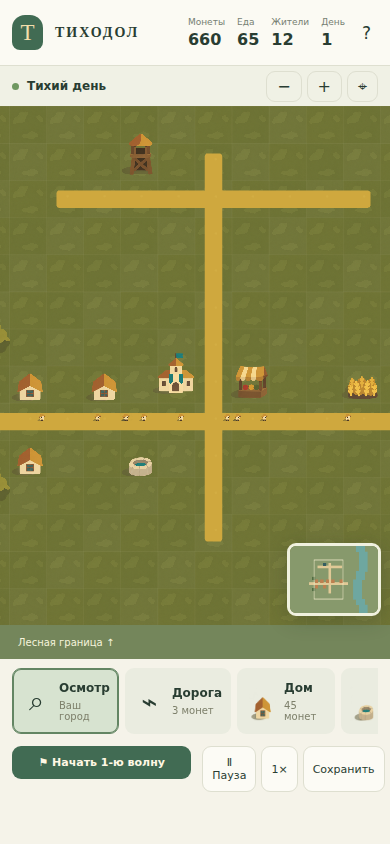
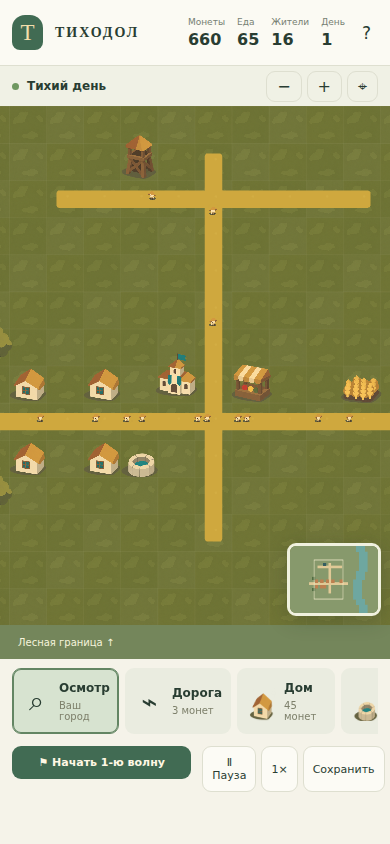
Добавить рабочих служебным зданиям и наклонный ракурс построек

diff --git a/game.js b/game.js
@@ -6,17 +6,17 @@ const $=id=>document.getElementById(id);
 function toast(text){$('toast').textContent=text;$('toast').classList.add('show');clearTimeout(toastTimer);toastTimer=setTimeout(()=>$('toast').classList.remove('show'),3400);}
 function save(manual=false){try{localStorage.setItem(SAVE,JSON.stringify(city.serialize()));if(manual)toast('Город сохранён в этом браузере.');}catch{toast('Браузер не разрешил сохранить город.');}}
 const buildTypes=['inspect','road','house','well','market','farm','fish','pottery','tower','tree','demolish'];
-for(const name of buildTypes){const t=TYPES[name],btn=document.createElement('button');btn.className='build-btn'+(name===tool?' active':'');btn.dataset.tool=name;btn.title=t.desc;const icon=document.createElement('span');icon.className='icon';if(t.frame!==null&&name!=='inspect'){icon.style.backgroundImage='url(assets/town-atlas-v2.png)';icon.style.backgroundPosition=`${(t.frame%4)*100/3}% ${Math.floor(t.frame/4)*100/3}%`;}else{icon.style.fontSize='27px';icon.style.display='grid';icon.style.placeItems='center';icon.textContent=name==='road'?'⌁':name==='inspect'?'⌕':'×';}const text=document.createElement('span');text.innerHTML=`<strong>${t.name}</strong><small>${t.cost?t.cost+' монет':name==='inspect'?'Ваш город':'Убрать'}</small>`;btn.append(icon,text);btn.onclick=()=>setTool(name);$('build').append(btn);}
+for(const name of buildTypes){const t=TYPES[name],btn=document.createElement('button');btn.className='build-btn'+(name===tool?' active':'');btn.dataset.tool=name;btn.title=t.desc;const icon=document.createElement('span');icon.className='icon';if(t.frame!==null&&name!=='inspect'){icon.style.backgroundImage='url(assets/town-atlas-v3.png)';icon.style.backgroundPosition=`${(t.frame%4)*100/3}% ${Math.floor(t.frame/4)*100/3}%`;}else{icon.style.fontSize='27px';icon.style.display='grid';icon.style.placeItems='center';icon.textContent=name==='road'?'⌁':name==='inspect'?'⌕':'×';}const text=document.createElement('span');text.innerHTML=`<strong>${t.name}</strong><small>${t.cost?t.cost+' монет':name==='inspect'?'Ваш город':'Убрать'}</small>`;btn.append(icon,text);btn.onclick=()=>setTool(name);$('build').append(btn);}
 function setTool(name){tool=name;selected=null;$('selection').hidden=true;$('tool-label').textContent=TYPES[name].name;$('tip').textContent=TYPES[name].desc;document.querySelectorAll('.build-btn').forEach(b=>b.classList.toggle('active',b.dataset.tool===name));scene?.ghost.setVisible(false);}
 function selection(){const panel=$('selection'),b=city.buildings.find(b=>b.id===selected);if(!b){panel.hidden=true;return;}panel.hidden=false;let html=`<button class="close" id="close-selection">×</button><h3>${TYPES[b.type].name}</h3><small>${b.type==='house'?'Уровень '+b.level+' · '+b.residents+' жителей':b.type==='tower'?'Уровень '+b.level:'Городская постройка'} · ${Math.ceil(b.hp)}/${b.maxHp} прочности</small>`;
 if(b.type==='house'){const labels={road:'Связь с ратушей',water:'Чистая вода',food:'Еда с рынка',pots:'Посуда',beauty:'Красота района'};html+=Object.entries(b.needs).map(([n,ok])=>`<div class="need"><span>${labels[n]}</span><span class="${ok?'yes':'no'}">${ok?'Есть':'Нужно'}</span></div>`).join('');html+=`<p>${!b.connected?'Проложите дорогу от дома к ратуше.':b.level===3?'Жители довольны своим районом.':!b.needs.water?'Нужен колодец на этой дорожной сети, не дальше 8 клеток.':!b.needs.food?'Нужен работающий рынок и запас еды.':b.level===2&&!b.needs.pots?'Постройте гончарную и обеспечьте её работниками.':b.level===2&&!b.needs.beauty?'Посадите дерево в пределах 3 клеток.':'Дом готов к росту. Поддерживайте снабжение два цикла.'}</p>`;}
-else if(b.type==='hall'){html+=`<p>Занято ${city.employed} из ${city.workforce} работников.<br>Посуда на складе: ${Math.floor(city.pots)}.<br>Торговец предлагает еду и покупает посуду.</p><div class="selection-actions"><button id="buy">30 еды / 40 монет</button><button id="sell">10 посуды / +65</button></div>`;}
-else{html+=`<p>${TYPES[b.type].desc}<br>${b.type==='tree'?'':b.connected?'Соединено с ратушей.':'Нет дороги к ратуше.'}${TYPES[b.type].jobs?'<br>Работники: '+b.workers+'/'+TYPES[b.type].jobs:''}${b.type==='well'||b.type==='market'?'<br>Обслуживает домов: '+(city.serviceLoad.get(b.id)||0):''}</p>`;}
-html+='<div class="selection-actions">';if(b.type==='tower'&&b.level===1)html+='<button id="upgrade">Улучшить · 100</button>';if(b.hp<b.maxHp)html+=`<button id="repair">Ремонт · ${Math.ceil((b.maxHp-b.hp)/5)}</button>`;html+='</div>';panel.innerHTML=html;$('close-selection').onclick=()=>{selected=null;panel.hidden=true;};if($('upgrade'))$('upgrade').onclick=()=>{if(!city.upgrade(b.id))toast('Для улучшения нужно 100 монет.');selection();};if($('repair'))$('repair').onclick=()=>{if(!city.repair(b.id))toast('Не хватает монет на ремонт.');selection();};if($('buy'))$('buy').onclick=()=>{toast(city.trade('buy')?'Куплено 30 еды.':'Нужно 40 монет.');selection();};if($('sell'))$('sell').onclick=()=>{toast(city.trade('sell')?'Продано 10 посуды.':'Нужно 10 посуды.');selection();};}
+else if(b.type==='hall'){html+=`<p>Занято ${city.employed} из ${city.workforce} работников.<br>Посуда на складе: ${Math.floor(city.pots)}.<br>${b.workers?'Ратуша работает: торговля и сбор дохода доступны.':'Нет работника: торговля и сбор дохода приостановлены.'}<br>Работники ратуши: ${b.workers}/${city.capacity(b)}.</p><div class="selection-actions"><button id="buy">30 еды / 40 монет</button><button id="sell">10 посуды / +65</button></div>`;}
+else{html+=`<p>${TYPES[b.type].desc}<br>${b.type==='tree'?'':b.connected?'Соединено с ратушей.':'Нет дороги к ратуше.'}${TYPES[b.type].jobs?'<br>Работники: '+b.workers+'/'+city.capacity(b):''}${b.type==='well'||b.type==='market'?'<br>Обслуживает домов: '+(city.serviceLoad.get(b.id)||0):''}</p>`;}
+html+='<div class="selection-actions">';if(b.type==='tower'&&b.level===1)html+='<button id="upgrade">Улучшить · 100<br>4 работника</button>';if(b.hp<b.maxHp)html+=`<button id="repair">Ремонт · ${Math.ceil((b.maxHp-b.hp)/5)}</button>`;html+='</div>';if(city.capacity(b)>0&&b.type!=='tower'&&b.type!=='hall')html+=`<p>${!b.workers?'Нет работников: здание простаивает.':b.workers<city.capacity(b)?'Неполный состав: эффективность '+Math.round(b.workers/city.capacity(b)*100)+'%.':'Все рабочие места заняты.'}</p>`;if(b.type==='tower')html+=`<p>${!b.connected?'Нужна дорога к ратуше для найма гарнизона.':!b.workers?'Нет работников: башня не стреляет. Постройте заселённые дома у дорожной сети.':b.workers<city.capacity(b)?'Неполный гарнизон: скорострельность '+Math.round(b.workers/city.capacity(b)*100)+'%.':'Гарнизон укомплектован. Башня готова к обороне.'}</p>`;panel.innerHTML=html;$('close-selection').onclick=()=>{selected=null;panel.hidden=true;};if($('upgrade'))$('upgrade').onclick=()=>{if(!city.upgrade(b.id))toast('Для улучшения нужно 100 монет.');selection();};if($('repair'))$('repair').onclick=()=>{if(!city.repair(b.id))toast('Не хватает монет на ремонт.');selection();};if($('buy'))$('buy').onclick=()=>{toast(city.trade('buy')?'Куплено 30 еды.':!b.workers?'Нужен работник в ратуше.':'Нужно 40 монет.');selection();};if($('sell'))$('sell').onclick=()=>{toast(city.trade('sell')?'Продано 10 посуды.':!b.workers?'Нужен работник в ратуше.':'Нужно 10 посуды.');selection();};}
 function ui(){for(const n of ['coins','food','population'])$(n).textContent=Math.floor(city[n]);$('day').textContent=Math.floor(city.time/12)+1;$('world-status').textContent=city.lost?'Ратуша разрушена':city.waveActive?'Нападение · волна '+city.wave:'Тихий день';$('wave').disabled=city.waveActive||city.lost;$('wave').textContent=city.waveActive?'⚑ Врагов: '+(city.enemies.length+city.spawnLeft):'⚑ Начать '+(city.wave+1)+'-ю волну';$('wave-note').textContent=city.waveActive?'Башни защищают автоматически. Можно строить и ремонтировать.':'Нападения начинаются по вашей команде.';const homes=city.buildings.filter(b=>b.type==='house'),grown=homes.filter(b=>b.level>=2).length;$('objective').innerHTML=`${grown>=3?'✓':'○'} Улучшить 3 дома <span>${grown}/3</span><br>${city.buildings.some(b=>b.type==='pottery')?'✓':'○'} Открыть производство посуды<br>${city.wave>=1&&!city.waveActive?'✓':'○'} Отразить первую волну`;if(selected)selection();while(city.events.length)toast(city.events.shift());}
 class World extends Phaser.Scene{
 constructor(){super('World');this.rev=-1;this.buildingSprites=new Map();this.enemySprites=new Map();this.villagers=[];this.elapsed=0;this.uiTime=0;this.down=null;this.moved=false;this.lastPaint='';}
-preload(){this.load.image('atlas','assets/town-atlas-v2.png');this.load.image('terrain','assets/terrain-v2.png');}
+preload(){this.load.image('atlas','assets/town-atlas-v3.png');this.load.image('terrain','assets/terrain-v2.png');}
 create(){scene=this;$('loading').remove();const atlas=this.textures.get('atlas'),img=atlas.getSourceImage();for(let i=0;i<16;i++){const col=i%4,row=Math.floor(i/4),x=Math.round(col*img.width/4),y=Math.round(row*img.height/4);atlas.add('sprite'+i,0,x,y,Math.round((col+1)*img.width/4)-x,Math.round((row+1)*img.height/4)-y);}
 const tex=this.textures.get('terrain'),source=tex.getSourceImage();for(let i=0;i<4;i++){const x=Math.round(i%2*source.width/2),y=Math.round(Math.floor(i/2)*source.height/2);tex.add('tile'+i,0,x,y,Math.round(source.width/2),Math.round(source.height/2));}
 this.terrainLayer=this.add.container(0,0);for(let y=0;y<H;y++)for(let x=0;x<W;x++){const t=terrain(x,y),f=t==='water'?2:t==='sand'?3:0;const image=this.add.image(x*TILE,y*TILE,'terrain','tile'+f).setOrigin(0).setDisplaySize(TILE+1,TILE+1);if(t==='grass')image.setTint([0xffffff,0xfbfbe9,0xf7f8e9][(x*7+y*13)%3]);this.terrainLayer.add(image);}
@@ -33,9 +33,9 @@ drawHover({x,y}){this.hover.clear();this.ghost.setVisible(false);if(x<0||y<0||x>
 paint(p){const {x,y}=this.cell(p),k=key(x,y);if(k===this.lastPaint)return;this.lastPaint=k;const err=city.place('road',x,y);if(err&&!err.includes('занята'))toast(err);}
 click(p){const{x,y}=this.cell(p);if(tool==='inspect'){selected=city.at(x,y)?.id??null;selection();this.range.clear();const b=city.at(x,y);if(b?.type==='tower'){this.range.lineStyle(2,0xf9e8a2,.7);this.range.strokeCircle(b.x*TILE+32,b.y*TILE+32,(b.level===1?5:6.5)*TILE);}return;}const err=city.place(tool,x,y);if(err)toast(err);else {this.range.clear();ui();}}
 renderBuildings(){this.roads.clear();for(const k of city.roads){const[x,y]=k.split(',').map(Number),cx=x*TILE+32,cy=y*TILE+32;const connected=city.connected.has(k);this.roads.fillStyle(connected?0xcfa83e:0x9d924c,1);this.roads.fillRoundedRect(cx-15,cy-15,30,30,5);for(const[dx,dy]of [[1,0],[-1,0],[0,1],[0,-1]])if(city.roads.has(key(x+dx,y+dy)))this.roads.fillRect(cx+(dx<0?-32:dx>0?0:-15),cy+(dy<0?-32:dy>0?0:-15),dx?32:30,dy?32:30);this.roads.fillStyle(0xe2bd55,.22);this.roads.fillCircle(cx+4,cy-5,2);}
-const live=new Set();for(const b of city.buildings){live.add(b.id);const frame=b.type==='house'?b.level-1:b.type==='tower'&&b.level===2?9:TYPES[b.type].frame;let image=this.buildingSprites.get(b.id);if(!image){image=this.add.image(b.x*TILE+32,b.y*TILE+51,'atlas','sprite'+frame).setOrigin(.5,.85);this.buildingSprites.set(b.id,image);}image.setTexture('atlas','sprite'+frame).setDisplaySize(b.type==='tree'?83:86,b.type==='tree'?90:86).setDepth(10+b.y*10);image.setAlpha(b.connected||b.type==='tree'||b.type==='tower'?1:.63);}
+const live=new Set();for(const b of city.buildings){live.add(b.id);const frame=b.type==='house'?b.level-1:b.type==='tower'&&b.level===2?9:TYPES[b.type].frame;let image=this.buildingSprites.get(b.id);if(!image){image=this.add.image(b.x*TILE+32,b.y*TILE+51,'atlas','sprite'+frame).setOrigin(.5,.85);this.buildingSprites.set(b.id,image);}image.setTexture('atlas','sprite'+frame).setDisplaySize(b.type==='tree'?83:86,b.type==='tree'?90:86).setDepth(10+b.y*10);image.setAlpha(b.connected||b.type==='tree'?1:.63);}
 for(const[id,image]of this.buildingSprites)if(!live.has(id)){image.destroy();this.buildingSprites.delete(id);}this.rev=city.revision;this.makeVillagers();this.updateMinimap();}
-makeVillagers(){for(const v of this.villagers)v.image.destroy();this.villagers=[];const homes=city.buildings.filter(b=>b.type==='house'&&b.residents);const targets=city.buildings.filter(b=>b.connected&&['farm','market','pottery','well','fish'].includes(b.type));for(let i=0;i<Math.min(18,city.population);i++){const home=homes[i%homes.length],target=targets[i%targets.length];if(!home||!target)continue;const path=city.path(home,target);if(path.length<2)continue;const image=this.add.image(0,0,'atlas','sprite12').setDisplaySize(25,29).setOrigin(.5,.9);this.villagers.push({image,path,p:i*.75,dir:1});}}
+makeVillagers(){for(const v of this.villagers)v.image.destroy();this.villagers=[];const homes=city.buildings.filter(b=>b.type==='house'&&b.residents);const targets=city.buildings.filter(b=>b.connected&&['farm','market','pottery','well','fish','tower'].includes(b.type));for(let i=0;i<Math.min(18,city.population);i++){const home=homes[i%homes.length],target=targets[i%targets.length];if(!home||!target)continue;const path=city.path(home,target);if(path.length<2)continue;const image=this.add.image(0,0,'atlas','sprite12').setDisplaySize(25,29).setOrigin(.5,.9);this.villagers.push({image,path,p:i*.75,dir:1});}}
 shot(a,b){const arrow=this.add.graphics().setDepth(2000);arrow.lineStyle(3,0xffedb2,1);arrow.lineBetween(0,0,10,0);arrow.setPosition(a.x*TILE+32,a.y*TILE+10);const end={x:b.x*TILE+32,y:b.y*TILE+32};arrow.rotation=Math.atan2(end.y-arrow.y,end.x-arrow.x);this.tweens.add({targets:arrow,x:end.x,y:end.y,duration:210,onComplete:()=>arrow.destroy()});}
 updateMinimap(){const canvas=$('minimap'),ctx=canvas.getContext('2d'),sx=canvas.width/W,sy=canvas.height/H;ctx.fillStyle='#87996c';ctx.fillRect(0,0,canvas.width,canvas.height);for(let y=0;y<H;y++)for(let x=0;x<W;x++)if(terrain(x,y)==='water'){ctx.fillStyle='#6ea7a0';ctx.fillRect(x*sx,y*sy,sx+1,sy+1);}ctx.fillStyle='#e0c996';for(const k of city.roads){const[x,y]=k.split(',').map(Number);ctx.fillRect(x*sx,y*sy,sx,sy);}for(const b of city.buildings){ctx.fillStyle=b.type==='tower'?'#345d61':b.type==='tree'?'#526d43':'#bd8050';ctx.fillRect(b.x*sx,b.y*sy,sx+1,sy+1);}ctx.fillStyle='#d97762';for(const e of city.enemies)ctx.fillRect(e.x*sx,e.y*sy,3,3);const c=this.cameras.main;ctx.strokeStyle='#faf2d2';ctx.lineWidth=1.2;ctx.strokeRect(c.worldView.x/TILE*sx,c.worldView.y/TILE*sy,c.worldView.width/TILE*sx,c.worldView.height/TILE*sy);}
 update(time,delta){const dt=Math.min(delta/1000,.1);if(!paused){city.step(dt*speed);saveClock+=dt;if(saveClock>15){saveClock=0;save();}for(const v of this.villagers){const max=v.path.length-1;v.p+=dt*.85*speed*v.dir;if(v.p>=max){v.p=max;v.dir=-1;}if(v.p<=0){v.p=0;v.dir=1;}const idx=Math.min(max-1,Math.floor(v.p)),f=v.p-idx,a=v.path[idx],b=v.path[idx+1];v.image.setPosition((a[0]+(b[0]-a[0])*f)*TILE+32,(a[1]+(b[1]-a[1])*f)*TILE+34+Math.sin(time/100)*1.2).setDepth(15+v.image.y/TILE*10).setFlipX(b[0]<a[0]);}}

diff --git a/sim.js b/sim.js
@@ -6,14 +6,14 @@ inspect:{name:'Осмотр',cost:0,frame:14,desc:'Выберите здание
 road:{name:'Дорога',cost:3,frame:null,desc:'Соединяет дома и службы с ратушей. Можно рисовать непрерывно.'},
 house:{name:'Дом',cost:45,frame:0,hp:150,desc:'Вода и еда → уровень 2. Посуда и красота → уровень 3.'},
 well:{name:'Колодец',cost:65,frame:3,hp:160,desc:'Даёт воду 4 домам в пределах 8 клеток пути по дороге.'},
-market:{name:'Рынок',cost:90,frame:4,hp:170,desc:'Снабжает едой 8 домов в пределах 10 клеток пути.'},
-farm:{name:'Ферма',cost:80,frame:5,hp:150,jobs:4,desc:'4 работника производят 8 еды за цикл.'},
+market:{name:'Рынок',cost:90,frame:4,hp:170,jobs:2,desc:'2 работника снабжают едой до 8 домов в пределах 10 клеток пути. Неполный состав обслуживает меньше домов.'},
+farm:{name:'Ферма',cost:80,frame:5,hp:150,jobs:3,desc:'3 работника производят 6 еды за цикл.'},
 fish:{name:'Рыбалка',cost:85,frame:6,hp:140,jobs:3,desc:'Строится у реки. 3 работника производят 6 еды за цикл.'},
 pottery:{name:'Гончарная',cost:100,frame:7,hp:170,jobs:4,desc:'Работники делают посуду, необходимую для лучших домов.'},
-tower:{name:'Башня',cost:120,frame:8,hp:260,desc:'Автоматически защищает город. Можно улучшить в карточке.'},
+tower:{name:'Башня',cost:120,frame:8,hp:260,jobs:2,desc:'Нужны 2 работника, улучшенной башне — 4. Без гарнизона не стреляет; неполный состав снижает скорострельность.'},
 tree:{name:'Дерево',cost:12,frame:10,hp:60,desc:'Красота для домов в пределах 3 клеток.'},
 demolish:{name:'Снести',cost:0,frame:null,desc:'Возвращает треть стоимости. Ратушу снести нельзя.'},
-hall:{name:'Ратуша',cost:0,frame:15,hp:700,desc:'Сердце дорожной сети. Торговля запасами и городской бюджет.'}
+hall:{name:'Ратуша',cost:0,frame:15,hp:700,jobs:1,desc:'1 работник ведёт торговлю и собирает доход города. Сердце дорожной сети.'}
 };
 const key=(x,y)=>x+','+y,dist=(a,b)=>Math.hypot(a.x-b.x,a.y-b.y);
 const riverX=y=>25+Math.round(Math.sin(y*.32)*1.3);
@@ -22,32 +22,37 @@ class City{
 constructor(saved){this.events=[];this.time=0;this.cycle=0;this.coins=660;this.food=65;this.pots=0;this.wave=0;this.kills=0;this.roads=new Set();this.buildings=[];this.enemies=[];this.waveActive=false;this.spawnLeft=0;this.spawnClock=0;this.nextId=1;this.lost=false;this.revision=0;
 if(saved){this.coins=saved.coins;this.food=saved.food;this.pots=saved.pots;this.time=saved.time;this.cycle=saved.cycle;this.wave=saved.wave;this.kills=saved.kills;this.nextId=saved.nextId;this.roads=new Set(saved.roads);this.buildings=saved.buildings;this.lost=!this.buildings.some(b=>b.type==='hall');this.event('Город восстановлен. Незавершённая волна отменена.');}else this.seed();this.recompute();}
 event(text){this.events.push(text);}
-seed(){for(let x=7;x<=20;x++)this.roads.add(key(x,13));for(let y=6;y<=16;y++)this.roads.add(key(14,y));for(let x=10;x<=18;x++)this.roads.add(key(x,7));this.add('hall',13,12);this.add('house',9,12);this.add('house',11,12);this.add('house',9,14);this.add('well',12,14);this.add('market',15,12);this.add('farm',18,12);this.add('tower',12,6);this.add('tree',8,11);this.add('tree',8,15);}
+seed(){for(let x=7;x<=20;x++)this.roads.add(key(x,13));for(let y=6;y<=16;y++)this.roads.add(key(14,y));for(let x=10;x<=18;x++)this.roads.add(key(x,7));this.add('hall',13,12);this.add('house',9,12);this.add('house',11,12);this.add('house',9,14);this.add('house',11,14);this.add('well',12,14);this.add('market',15,12);this.add('farm',18,12);this.add('tower',12,6);this.add('tree',8,11);this.add('tree',8,15);}
 add(type,x,y){const t=TYPES[type];const b={id:this.nextId++,type,x,y,level:1,hp:t.hp,maxHp:t.hp,progress:0,workers:0,cooldown:0};this.buildings.push(b);this.revision++;return b;}
 at(x,y){return this.buildings.find(b=>b.x===x&&b.y===y);}
 place(type,x,y){if(this.lost)return 'Ратуша разрушена. Начните новый город.';if(x<1||x>=W-1||y<1||y>=H-1)return 'Здесь проходит граница поселения.';const existing=this.at(x,y);
 if(type==='demolish'){if(existing?.type==='hall')return 'Ратуша нужна городу.';if(existing){this.coins+=Math.floor(TYPES[existing.type].cost/3);this.buildings=this.buildings.filter(b=>b!==existing);this.revision++;}else if(this.roads.delete(key(x,y)))this.revision++;this.recompute();return null;}
 if(existing||this.roads.has(key(x,y)))return 'Эта клетка уже занята.';if(terrain(x,y)==='water')return 'На воде строить нельзя.';if(type==='fish'&&![[1,0],[-1,0],[0,1],[0,-1]].some(([dx,dy])=>terrain(x+dx,y+dy)==='water'))return 'Рыбацкому домику нужен берег реки.';if(this.coins<TYPES[type].cost)return 'Не хватает монет.';this.coins-=TYPES[type].cost;if(type==='road'){this.roads.add(key(x,y));this.revision++;}else this.add(type,x,y);this.recompute();return null;}
+capacity(b){return b.type==='tower'&&b.level>=2?4:(TYPES[b.type].jobs||0);}
 nearRoads(b){return [[1,0],[-1,0],[0,1],[0,-1]].map(([dx,dy])=>key(b.x+dx,b.y+dy)).filter(k=>this.roads.has(k));}
 bfs(starts){const d=new Map(),q=[];for(const k of starts){d.set(k,0);q.push(k);}for(let i=0;i<q.length;i++){const k=q[i], [x,y]=k.split(',').map(Number);for(const [dx,dy]of [[1,0],[-1,0],[0,1],[0,-1]]){const n=key(x+dx,y+dy);if(this.roads.has(n)&&!d.has(n)){d.set(n,d.get(k)+1);q.push(n);}}}return d;}
 path(a,b){const goals=new Set(this.nearRoads(b)),starts=this.nearRoads(a).filter(k=>this.connected.has(k)),q=[...starts],parent=new Map(starts.map(k=>[k,null]));for(let i=0;i<q.length;i++){const k=q[i];if(goals.has(k)){const out=[];for(let p=k;p!==null;p=parent.get(p))out.push(p.split(',').map(Number));return out.reverse();}const[x,y]=k.split(',').map(Number);for(const[dx,dy]of [[1,0],[-1,0],[0,1],[0,-1]]){const n=key(x+dx,y+dy);if(this.connected.has(n)&&!parent.has(n)){parent.set(n,k);q.push(n);}}}return [];}
-recompute(){const hall=this.buildings.find(b=>b.type==='hall');this.connected=this.bfs(hall?this.nearRoads(hall):[]);for(const b of this.buildings)b.connected=b.type==='hall'||this.nearRoads(b).some(k=>this.connected.has(k));
-const services=this.buildings.filter(b=>b.connected&&(b.type==='well'||b.type==='market'));const maps=new Map(services.map(b=>[b.id,this.bfs(this.nearRoads(b))]));const load=new Map();this.population=0;
-for(const b of this.buildings.filter(b=>b.type==='house')){b.needs={road:b.connected,water:false,food:false,pots:false,beauty:this.buildings.some(t=>t.type==='tree'&&dist(t,b)<=3)};if(b.connected){for(const[type,need,range,cap]of [['well','water',8,4],['market','food',10,8]]){const candidates=services.filter(s=>s.type===type).map(s=>({s,d:Math.min(...this.nearRoads(b).map(k=>maps.get(s.id).get(k)??Infinity))})).filter(({s,d})=>d<=range&&(load.get(s.id)||0)<cap).sort((a,b)=>a.d-b.d);if(candidates.length){const s=candidates[0].s;load.set(s.id,(load.get(s.id)||0)+1);b.needs[need]=need==='water'||this.food>0;}}b.needs.pots=this.pots>0;}b.residents=b.connected?b.level*4:0;this.population+=b.residents;}
-this.workforce=Math.floor(this.population*.5);let available=this.workforce;const jobs=this.buildings.filter(b=>TYPES[b.type].jobs);this.jobs=jobs.reduce((n,b)=>n+TYPES[b.type].jobs,0);for(const b of jobs){const reachable=b.connected&&this.buildings.some(h=>h.type==='house'&&h.residents&&this.path(h,b).length<=18);b.workers=reachable?Math.min(available,TYPES[b.type].jobs):0;available-=b.workers;}this.employed=this.workforce-available;this.serviceLoad=load;}
+recompute(){
+const hall=this.buildings.find(b=>b.type==='hall');this.connected=this.bfs(hall?this.nearRoads(hall):[]);for(const b of this.buildings)b.connected=b.type==='hall'||this.nearRoads(b).some(k=>this.connected.has(k));
+const houses=this.buildings.filter(b=>b.type==='house');this.population=0;for(const b of houses){b.residents=b.connected?b.level*4:0;this.population+=b.residents;}
+this.workforce=Math.floor(this.population*.5);let available=this.workforce;const jobs=this.buildings.filter(b=>this.capacity(b)>0);this.jobs=jobs.reduce((n,b)=>n+this.capacity(b),0);
+for(const b of jobs){const reachable=b.connected&&houses.some(h=>{if(!h.residents)return false;const length=this.path(h,b).length;return length>0&&length<=18;});b.workers=reachable?Math.min(available,this.capacity(b)):0;available-=b.workers;}this.employed=this.workforce-available;
+const services=this.buildings.filter(b=>b.connected&&(b.type==='well'||(b.type==='market'&&b.workers>0)));const maps=new Map(services.map(b=>[b.id,this.bfs(this.nearRoads(b))]));const load=new Map();
+for(const b of houses){b.needs={road:b.connected,water:false,food:false,pots:false,beauty:this.buildings.some(t=>t.type==='tree'&&dist(t,b)<=3)};if(b.connected){for(const[type,need,range,cap]of [['well','water',8,4],['market','food',10,8]]){const candidates=services.filter(s=>s.type===type).map(s=>({s,d:Math.min(...this.nearRoads(b).map(k=>maps.get(s.id).get(k)??Infinity))})).filter(({s,d})=>d<=range&&(load.get(s.id)||0)<(s.type==='market'?Math.floor(cap*s.workers/this.capacity(s)):cap)).sort((a,b)=>a.d-b.d);if(candidates.length){const s=candidates[0].s;load.set(s.id,(load.get(s.id)||0)+1);b.needs[need]=need==='water'||this.food>0;}}b.needs.pots=this.pots>0;}}
+this.serviceLoad=load;}
 economy(){this.recompute();let produced=0;for(const b of this.buildings){if(b.type==='farm')produced+=b.workers*2;if(b.type==='fish')produced+=b.workers*2;if(b.type==='pottery')this.pots+=b.workers*.5;}
 this.food=Math.min(500,this.food+produced);let income=0;for(const b of this.buildings.filter(b=>b.type==='house')){if(!b.residents)continue;const need=b.needs;if(need.food){if(this.food>=b.residents*.25)this.food-=b.residents*.25;else need.food=false;}const desired=need.water&&need.food?(need.pots&&need.beauty?3:2):1;if(desired>b.level){b.progress++;if(b.progress>=2){b.level++;b.progress=0;this.event('Дом вырос до уровня '+b.level+'!');this.revision++;}}else if(desired<b.level){b.progress--;if(b.progress<=-4){b.level--;b.progress=0;this.revision++;}}else b.progress=0;if(b.level===3)this.pots=Math.max(0,this.pots-.25);income+=b.level*4;}
-this.coins+=income;this.cycle++;this.recompute();}
+const hall=this.buildings.find(b=>b.type==='hall');this.coins+=income*(hall?.workers?1:0);this.cycle++;this.recompute();}
 startWave(){if(this.waveActive||this.lost)return false;this.wave++;this.waveActive=true;this.spawnLeft=4+this.wave*2;this.spawnClock=0;this.event('Волна '+this.wave+': монстры идут с северной опушки!');return true;}
 step(dt){if(this.lost)return;const oldCycle=Math.floor(this.time/12);this.time+=dt;if(Math.floor(this.time/12)>oldCycle)this.economy();
 if(this.waveActive){this.spawnClock-=dt;if(this.spawnLeft>0&&this.spawnClock<=0){this.spawnClock=1.8;this.spawnLeft--;const tank=this.wave>=2&&this.spawnLeft%3===0;this.enemies.push({id:this.nextId++,x:10+(this.spawnLeft%8),y:.3,hp:tank?100+this.wave*18:35+this.wave*10,maxHp:tank?100+this.wave*18:35+this.wave*10,speed:tank?.55:.8,tank,cooldown:0});}
-for(const tower of this.buildings.filter(b=>b.type==='tower')){tower.cooldown=Math.max(0,tower.cooldown-dt);const range=tower.level===1?5:6.5;const target=this.enemies.filter(e=>e.hp>0&&dist(e,tower)<range).sort((a,b)=>a.y-b.y).at(-1);if(target&&tower.cooldown===0){target.hp-=tower.level===1?15:27;tower.cooldown=tower.level===1?.85:.65;this.onShot?.(tower,target);}}
+for(const tower of this.buildings.filter(b=>b.type==='tower'&&b.connected&&b.workers>0)){tower.cooldown=Math.max(0,tower.cooldown-dt);const range=tower.level===1?5:6.5;const target=this.enemies.filter(e=>e.hp>0&&dist(e,tower)<range).sort((a,b)=>a.y-b.y).at(-1);if(target&&tower.cooldown===0){target.hp-=tower.level===1?15:27;tower.cooldown=(tower.level===1?.85:.65)*this.capacity(tower)/tower.workers;this.onShot?.(tower,target);}}
 for(const e of this.enemies){if(e.hp<=0)continue;let target=this.buildings.find(b=>b.id===e.target);if(!target){target=this.buildings.filter(b=>b.type!=='tree').sort((a,b)=>dist(a,e)-dist(b,e))[0];e.target=target?.id;}if(!target)continue;const d=dist(e,target);if(d>.65){e.x+=(target.x-e.x)/d*e.speed*dt;e.y+=(target.y-e.y)/d*e.speed*dt;}else{e.cooldown-=dt;if(e.cooldown<=0){e.cooldown=1;target.hp-=e.tank?22:10;this.onHit?.(target);if(target.hp<=0){this.buildings=this.buildings.filter(b=>b!==target);this.revision++;this.recompute();this.event(TYPES[target.type].name+' разрушен.');if(target.type==='hall'){this.lost=true;this.waveActive=false;this.event('Ратуша пала. Начните заново — город можно построить иначе.');}}}}}
 const dead=this.enemies.filter(e=>e.hp<=0);this.kills+=dead.length;this.coins+=dead.length*7;this.enemies=this.enemies.filter(e=>e.hp>0);if(!this.spawnLeft&&!this.enemies.length&&!this.lost){this.waveActive=false;this.coins+=50+this.wave*15;this.event('Волна отражена! Награда '+(50+this.wave*15)+' монет.');}}
 }
-upgrade(id){const b=this.buildings.find(b=>b.id===id);if(!b||b.type!=='tower'||b.level>=2)return false;if(this.coins<100)return false;this.coins-=100;b.level=2;b.maxHp=420;b.hp=420;this.revision++;return true;}
+upgrade(id){const b=this.buildings.find(b=>b.id===id);if(!b||b.type!=='tower'||b.level>=2)return false;if(this.coins<100)return false;this.coins-=100;b.level=2;b.maxHp=420;b.hp=420;this.revision++;this.recompute();return true;}
 repair(id){const b=this.buildings.find(b=>b.id===id);if(!b)return false;const cost=Math.ceil((b.maxHp-b.hp)/5);if(this.coins<cost)return false;this.coins-=cost;b.hp=b.maxHp;return true;}
-trade(action){if(this.lost)return false;if(action==='buy'&&this.coins>=40){this.coins-=40;this.food+=30;return true;}if(action==='sell'&&this.pots>=10){this.pots-=10;this.coins+=65;return true;}return false;}
+trade(action){if(this.lost||!this.buildings.some(b=>b.type==='hall'&&b.workers>0))return false;if(action==='buy'&&this.coins>=40){this.coins-=40;this.food+=30;return true;}if(action==='sell'&&this.pots>=10){this.pots-=10;this.coins+=65;return true;}return false;}
 serialize(){return {version:1,coins:this.coins,food:this.food,pots:this.pots,time:this.time,cycle:this.cycle,wave:this.wave,kills:this.kills,nextId:this.nextId,roads:[...this.roads],buildings:this.buildings.map(b=>({...b}))};}
 }
 const api={City,TYPES,W,H,key,terrain,riverX};if(typeof module!=='undefined')module.exports=api;else window.TownSim=api;

diff --git a/index.html b/index.html
@@ -1,6 +1,6 @@
-<!doctype html><html lang="ru"><head><meta charset="UTF-8"><meta name="viewport" content="width=device-width,initial-scale=1,maximum-scale=1"><meta name="theme-color" content="#263e35"><meta name="robots" content="noindex,nofollow"><title>Тиходол — город у границы леса</title><link rel="icon" href="data:,"><link rel="stylesheet" href="style.css?v=2"></head><body>
+<!doctype html><html lang="ru"><head><meta charset="UTF-8"><meta name="viewport" content="width=device-width,initial-scale=1,maximum-scale=1"><meta name="theme-color" content="#263e35"><meta name="robots" content="noindex,nofollow"><title>Тиходол — город у границы леса</title><link rel="icon" href="data:,"><link rel="stylesheet" href="style.css?v=3"></head><body>
 <header><div class="brand"><span class="brandmark">Т</span><div><b>ТИХОДОЛ</b><small>город у границы леса</small></div></div><div id="resources"><span>Монеты <b id="coins">—</b></span><span>Еда <b id="food">—</b></span><span>Жители <b id="population">—</b></span><span>День <b id="day">1</b></span></div><button id="help" class="quiet">Как играть</button></header>
 <main><aside><div class="eyebrow">ВАШЕ ПОСЕЛЕНИЕ</div><h1>Большое начинается<br>с маленького дома.</h1><p class="intro">Проложите дороги, позаботьтесь о жителях и защитите их от лесных гостей.</p><div class="sectionlabel">СТРОИТЕЛЬСТВО <span id="tool-label">Осмотр</span></div><nav id="build"></nav><div class="tip" id="tip">Начните с дома рядом с дорогой. Колодец и рынок помогут ему вырасти.</div><div class="sectionlabel">ГОРОДСКИЕ ДЕЛА</div><div class="objective" id="objective"></div><button id="wave" class="primary">⚑ Начать первую волну</button><div class="wave-note" id="wave-note">Нападения начинаются по вашей команде.</div><div class="controls"><button id="pause">Ⅱ Пауза</button><button id="speed">1×</button><button id="save">Сохранить</button></div><button id="reset" class="quiet reset">Начать заново</button></aside>
 <section class="world"><div class="world-head"><div><span class="status-dot"></span><b id="world-status">Тихий день</b><span id="season"> • Лето, первый год</span></div><div class="view-controls"><button id="zoom-out" aria-label="Уменьшить">−</button><button id="zoom-in" aria-label="Увеличить">+</button><button id="center">⌖</button></div></div><div id="game"><div id="loading">Рисуем ваш Тиходол…</div></div><div id="toast" role="status"></div><div id="selection" hidden></div><div class="map-legend"><span>Лесная граница ↑</span><span id="hint">Выберите здание • колесо: масштаб • перетаскивание: обзор</span></div><canvas id="minimap" width="160" height="120" title="Карта города"></canvas></section></main>
-<dialog id="help-dialog"><button id="close-help" class="close">×</button><div class="eyebrow">ДОБРО ПОЖАЛОВАТЬ</div><h2>У каждого дома — своя история.</h2><p>Поставьте дом у дороги, ведущей к ратуше. Колодец и рынок тоже должны примыкать к этой сети. Фермы и рыбацкие домики наполняют запас еды.</p><p>Вода и еда улучшают дом до второго уровня. Посуда из мастерской и дерево рядом открывают третий. Благополучные дома приносят больше монет.</p><p>Поставьте башни к северу от домов. Нажмите «Начать волну»: монстры идут с северной опушки. Башни стреляют автоматически, враги ломают постройки. Повреждения можно отремонтировать в карточке здания.</p><p>Выбирайте здания в меню и нажимайте на свободные клетки. Дорогу можно рисовать, ведя пальцем или мышью. В режиме осмотра перетаскивайте карту; на телефоне масштаб меняют кнопки + и −.</p><p>Это ранний прототип: торговля работает через обмен в ратуше, а работа жителей пока рассчитывается по доступности зданий. Волны запускаются вручную, сохранение хранится только в этом браузере.</p><button id="play" class="primary">Построим свой город</button></dialog>
-<script src="assets/phaser.min.js"></script><script src="sim.js"></script><script src="game.js?v=2"></script></body></html>
+<dialog id="help-dialog"><button id="close-help" class="close">×</button><div class="eyebrow">ДОБРО ПОЖАЛОВАТЬ</div><h2>У каждого дома — своя история.</h2><p>Поставьте дом у дороги, ведущей к ратуше. Колодец и рынок тоже должны примыкать к этой сети. Все рабочие здания требуют персонала; неполный состав снижает эффективность. Колодец работает без персонала. Фермы и рыбацкие домики наполняют запас еды.</p><p>Вода и еда улучшают дом до второго уровня. Посуда из мастерской и дерево рядом открывают третий. Благополучные дома приносят больше монет.</p><p>Поставьте башни к северу от домов. Нажмите «Начать волну»: монстры идут с северной опушки. Башни требуют дороги и гарнизона: 2 работника, после улучшения — 4. Без работников они не стреляют; неполный состав замедляет стрельбу. Враги ломают постройки. Повреждения можно отремонтировать в карточке здания.</p><p>Выбирайте здания в меню и нажимайте на свободные клетки. Дорогу можно рисовать, ведя пальцем или мышью. В режиме осмотра перетаскивайте карту; на телефоне масштаб меняют кнопки + и −.</p><p>Это ранний прототип: торговля работает через обмен в ратуше, а работа жителей пока рассчитывается по доступности зданий. Волны запускаются вручную, сохранение хранится только в этом браузере.</p><button id="play" class="primary">Построим свой город</button></dialog>
+<script src="assets/phaser.min.js"></script><script src="sim.js?v=3"></script><script src="game.js?v=3"></script></body></html>

diff --git a/README.md b/README.md
@@ -11,13 +11,13 @@
 - Сетка 32×24, дороги и связность с ратушей; обзор, масштаб и миникарта.
 - Дома трёх уровней; дорожная доступность воды и рынка, ограниченная вместимость служб, запас еды, посуда, красота.
 - Фермы, рыбалка на берегу, гончарная; распределение работников и пешеходные маршруты по дорогам.
-- Башни двух уровней, снаряды, вручную запускаемые волны, два типа врагов, разрушение зданий, ремонт, награды.
+- Работники для всех рабочих зданий, кроме колодца. Рынок обслуживает меньше домов при неполном составе; ратуша без работника не торгует и не собирает доход. Башни двух уровней, снаряды, вручную запускаемые волны, два типа врагов, разрушение зданий, ремонт, награды.
 - Покупка еды и продажа посуды в ратуше.
 - Пауза, скорости 1/2/3×, сохранение localStorage, адаптивное управление.
 
 ## Ограничения
 
-Это проверка основного игрового цикла, не вся обсуждённая модель. Нет индивидуального бюджета времени жителей, полноценного рынка труда, развитой торговли, санитарии, образования, развлечений, водоносов и больших строек. Рабочая сила рассчитывается агрегированно, ходящие жители визуализируют маршруты. Враги идут напрямую к ближайшей постройке, без полноценного поиска пути вокруг препятствий. Сезоны пока декоративные. В версии v2 графика упрощена по исходным референсам. Сохранение локальное; незавершённое нападение при загрузке отменяется без новой награды.
+Это проверка основного игрового цикла, не вся обсуждённая модель. Нет индивидуального бюджета времени жителей, полноценного рынка труда, развитой торговли, санитарии, образования, развлечений, водоносов и больших строек. Рабочая сила рассчитывается агрегированно, ходящие жители визуализируют маршруты. Враги идут напрямую к ближайшей постройке, без полноценного поиска пути вокруг препятствий. Сезоны пока декоративные. В версии v3 сохранена простая растровая стилистика, но добавлен лёгкий ракурс сверху с видимой боковой стеной. Сохранение локальное; незавершённое нападение при загрузке отменяется без новой награды.
 
 ## Проверка
 
@@ -27,4 +27,4 @@ node qa/browser-check.cjs
 
 Последняя команда использует существующий Playwright VPS и приватный URL вне Git. Проверены desktop 1440×1000 и mobile 390×844 в Chromium: загрузка ресурсов, отсутствие JS ошибок и горизонтального переполнения, строительство через UI, карточка, сохранение/перезагрузка, появление врагов. Это не аппаратная проверка телефона или Safari.
 
-Запросы графики и план анимации: docs/art-v2.md и docs/art-direction.md. Компактные результаты и необходимые скриншоты: qa/. URL размещения в Git не хранится.
+Запросы графики и план анимации: docs/art-v3.md, docs/art-v2.md и docs/art-direction.md. Компактные результаты и необходимые скриншоты: qa/. URL размещения в Git не хранится.

diff --git a/docs/workers.md b/docs/workers.md
@@ -1,0 +1,17 @@
+# Рабочие здания
+
+Все действующие служебные и производственные здания требуют населения с доступом по дорожной сети, в пределах 18 дорожных клеток. Дома дают население, деревья — благоустройство, колодец не требует работников.
+
+| Здание | Рабочих | Неполный состав |
+|---|---:|---|
+| Ратуша | 1 | Без работника нет дохода и торговли; дорожная сеть сохраняется |
+| Рынок | 2 | Обслуживает 4 дома на работника, максимум 8 |
+| Ферма | 3 | Производит 2 еды на работника за цикл |
+| Рыбалка | 3 | Производит 2 еды на работника за цикл |
+| Гончарная | 4 | Производит 0.5 посуды на работника за цикл |
+| Башня | 2 | Скорострельность пропорциональна занятости |
+| Улучшенная башня | 4 | Скорострельность пропорциональна занятости |
+
+Рабочая сила — половина заселённого населения. Один работник не назначается одновременно двум зданиям. В этом прототипе места распределяются в порядке зданий; приоритеты найма и индивидуальный рынок труда пока отсутствуют. Гарнизон участвует в том же общем бюджете рабочей силы. Новая игра начинает с четырёх домов, чтобы начальная инфраструктура могла работать; старые сохранения не сбрасываются, и нехватку персонала в них нужно закрыть новыми домами.
+
+Проверки: qa/tower-workers.cjs, qa/building-workers.cjs, qa/sim-check.cjs и кадровые показатели в браузерной карточке башни до/после улучшения.

diff --git a/docs/art-v3.md b/docs/art-v3.md
@@ -1,0 +1,7 @@
+# Ракурс v3
+
+Встроенный image_gen отредактировал атлас v2 с двумя исходными скриншотами пользователя как референсами. Новый растр assets/town-atlas-v3.png подключён к игровым спрайтам и меню. Сохранены 4×4, порядок объектов и прозрачность. У построек появился слегка наклонный ракурс сверху, видимая боковая стена и плоскости крыши. SVG не создавались.
+
+## Запрос
+
+Edit image 1 (the transparent 4x4 sprite atlas). Images 2 and 3 are STYLE AND CAMERA references from the user's game, not edit targets. Preserve the simple flat raster art, muted palette, 4x4 equal grid, transparent background, exact object order and padding. Change the CAMERA ANGLE of every building to a slight elevated three-quarter front view, as in the user's house reference: visible front wall AND a modest side wall, roof with visible top planes and depth, slight oblique angle, not straight-on facade. Side wall should be 15-25% of building width. Wooden tower platforms must have visible top and side planes, well rim must show its top opening and depth. Market stall and workshops also have this angle. Minimal solid color planes, no outlines, no gradients, no added detail, no realistic textures, no roof tile lines. Buildings should retain chunky simple forms. Preserve tree and character sprites in the last rows unchanged as much as possible. For the house in row1 col1, use the reference screenshot house's offset ochre roof, cream walls and simple teal window as strongest camera guide. Keep sprite anchors at their bases. No text, no grid borders. Actual alpha transparency.
